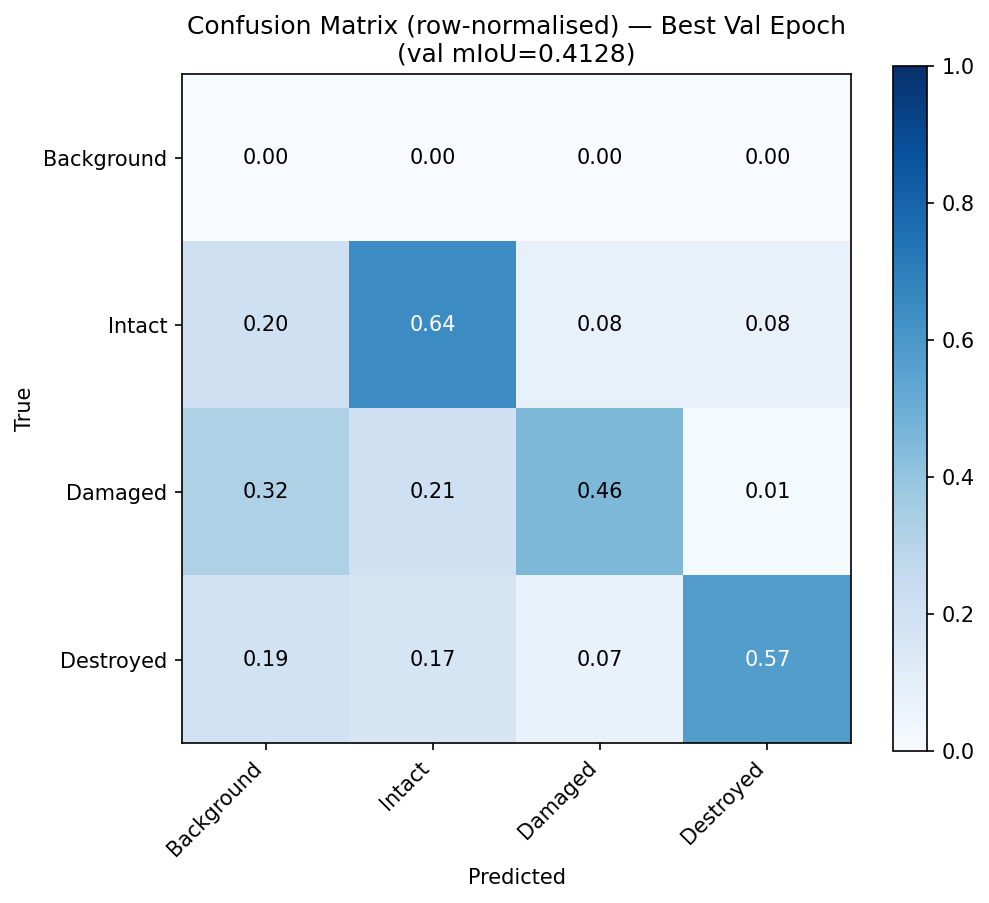
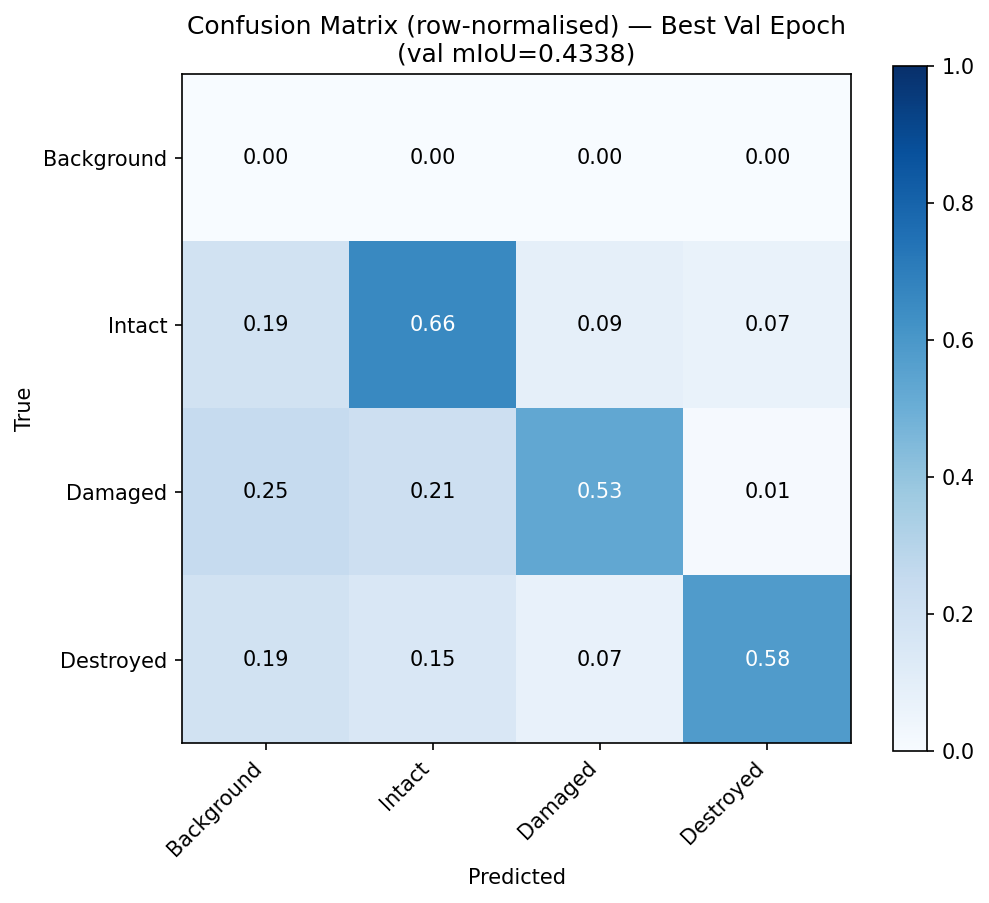
weights adjust

diff --git a/src/training/trainer.py b/src/training/trainer.py
@@ -22,7 +22,7 @@ Training and validation loop for BRIGHT Siamese UNet.
 NUM_CLASSES   = 4
 IGNORE_INDEX  = -100
 LABEL_NAMES   = {0: "Background", 1: "Intact", 2: "Damaged", 3: "Destroyed"}
-CLASS_WEIGHTS = [1.0, 1.0, 10.0, 15.0]
+CLASS_WEIGHTS = [1.0, 4.0, 7.8, 14.0]
 
 class Trainer:
     """Encapsulate the full training loop for the Siamese UNet"""
@@ -85,13 +85,13 @@ class Trainer:
         self.history = []   # list of per-epoch dicts
         
     # public entry point
-    def fit(self) -> list[dict]:
+    def fit(self, start_epoch: int = 0) -> list[dict]:
         """Run the full training loop."""
 
         # Freeze encoder for first 10 epochs
         # self._freeze_encoder()
 
-        for epoch in range(1, self.num_epochs + 1):
+        for epoch in range(start_epoch + 1, self.num_epochs + 1):
             epoch_start = time.time()
 
             # Unfreeze encoder at epoch 10 and halve LR

diff --git a/train.py b/train.py
@@ -1,5 +1,6 @@
 import argparse
 import os
+from pathlib import Path
 import random
 from types import SimpleNamespace
 
@@ -144,6 +145,12 @@ def main():
     if args.resume:
         start_epoch = trainer.load_checkpoint(args.resume)
         print(f" Resuming from epoch {start_epoch + 1}")
+    else:
+        # ── Auto-detect checkpoint if no --resume flag given ──────────────
+        auto_ckpt = Path(t.checkpoint_dir) / "UNet.pth"
+        if auto_ckpt.exists():
+            start_epoch = trainer.load_checkpoint(str(auto_ckpt))
+            print(f"Auto-resumed from epoch {start_epoch + 1}")
 
     # train
     history = trainer.fit()
